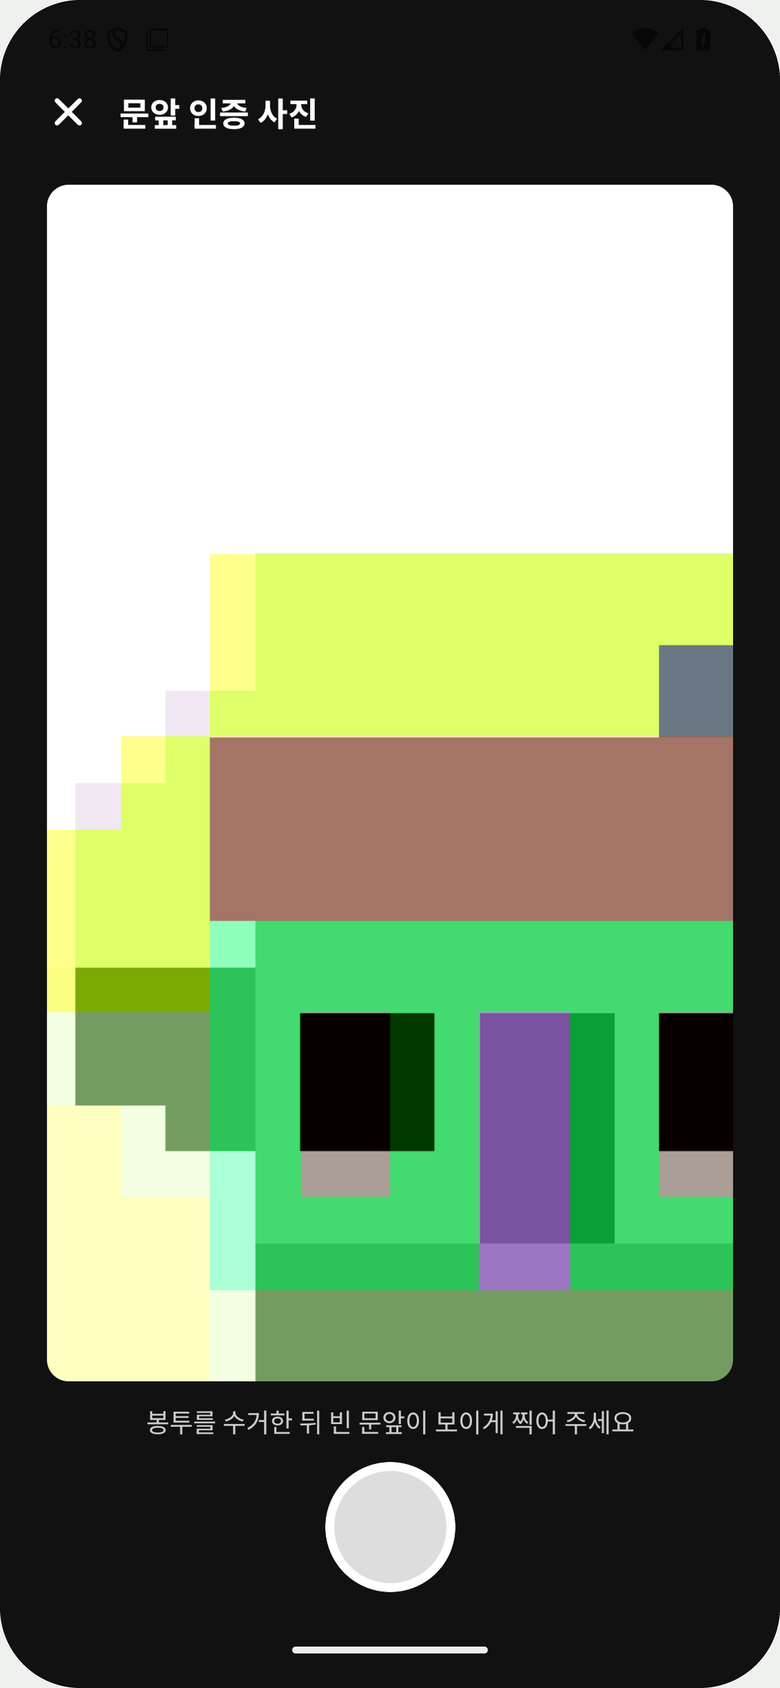
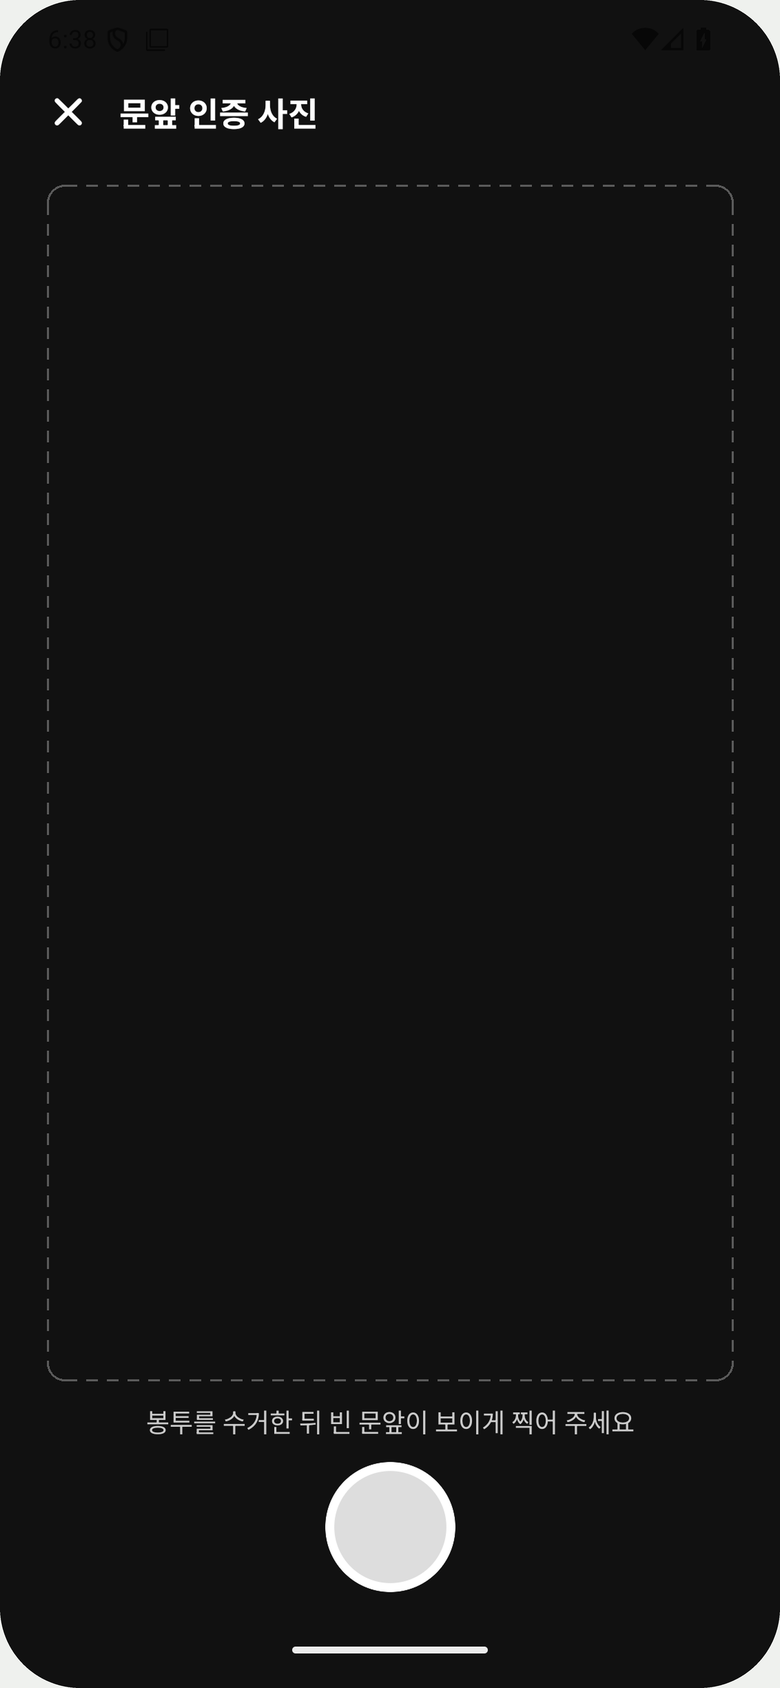
content: refine Bunri Jipsa overview copy, simplify screen gallery captions

diff --git a/public/projects/personal-sanitation/index.html b/public/projects/personal-sanitation/index.html
@@ -182,10 +182,10 @@
     <h2>프로젝트 개요</h2>
     <p class="lead">구독제 분리수거 대행 서비스입니다.<br>고객 앱은 Android·iOS 크로스 플랫폼을 지원합니다.<br>고객·기사·운영 담당자가 하나의 서비스 흐름으로 연결됩니다.</p>
     <div class="grid two services">
-      <div class="card service-card"><span class="tag">고객 앱</span><h3>서비스 앱</h3><p>구독을 신청하고, 정해진 수거 일정과 요청 사항을 관리하는 고객용 앱입니다.</p><div class="chips"><span class="chip">React</span><span class="chip">React Native</span><span class="chip">Expo</span></div></div>
-      <div class="card service-card"><span class="tag">기사 앱</span><h3>운영 앱</h3><p>수거 방문기사에게 오늘의 수거 권역과 방문 목록을 보여줍니다. 완료·미수거 기록을 오프라인에서도 저장하고, 관리자 웹의 작업 현황과 연계되도록 설계했습니다.</p><div class="chips"><span class="chip">React</span><span class="chip">React Native</span><span class="chip">Expo</span></div></div>
-      <div class="card service-card"><span class="tag">관리자 웹</span><h3>운영 대시보드</h3><p>오늘의 권역별 작업 현황과 구독·결제, 고객 요청, 푸시 알림, 이벤트·할인, 가격·플랜을 관리하는 운영 대시보드입니다.</p><div class="chips"><span class="chip">React</span><span class="chip">Next.js</span></div></div>
-      <div class="card service-card"><span class="tag">API</span><h3>백엔드 서버</h3><p>고객 앱과 운영 대시보드가 공유하고 기사 앱 연동을 전제로 설계한 백엔드 API입니다. 고객·구독·수거·결제 데이터를 통합 관리해 서비스 간 데이터 정합성을 높였습니다.</p><div class="chips"><span class="chip">NestJS</span><span class="chip">PostgreSQL</span><span class="chip">Docker</span><span class="chip">TypeORM</span></div></div>
+      <div class="card service-card"><span class="tag">고객 앱</span><h3>서비스 앱</h3><p>구독 기반으로 정해진 수거 일정에 맞춰 쓰레기를 수거하는 서비스입니다.<br>고객은 여러 주소에 각각 서비스를 신청하고, 수거 일정과 요청 사항을 앱에서 관리할 수 있습니다.</p><div class="chips"><span class="chip">React</span><span class="chip">React Native</span><span class="chip">Expo</span></div></div>
+      <div class="card service-card"><span class="tag">기사 앱</span><h3>운영 앱</h3><p>수거 방문 기사에게 오늘의 수거 권역과 방문 목록을 보여 줍니다.<br>완료·미수거 기록을 오프라인에서도 저장하고, 관리자 웹의 작업 현황과 연계되도록 구현했습니다.</p><div class="chips"><span class="chip">React</span><span class="chip">React Native</span><span class="chip">Expo</span></div></div>
+      <div class="card service-card"><span class="tag">관리자 웹</span><h3>운영 대시보드</h3><p>오늘의 권역별 작업 현황을 확인할 수 있는 관리자용 웹사이트입니다.<br>구독·결제, 고객 요청, 푸시 알림, 이벤트·할인, 가격·플랜을 설정할 수 있습니다.</p><div class="chips"><span class="chip">React</span><span class="chip">Next.js</span></div></div>
+      <div class="card service-card"><span class="tag">API</span><h3>백엔드 서버</h3><p>고객 앱, 운영 대시보드, 기사 앱 연동을 전제로 구현한 백엔드 서버입니다.<br>고객·구독·수거·결제 데이터를 통합 관리해 서비스 간 데이터 정합성을 높였습니다.</p><div class="chips"><span class="chip">NestJS</span><span class="chip">PostgreSQL</span><span class="chip">Docker</span><span class="chip">TypeORM</span></div></div>
     </div>
   </div>
 </section>
@@ -193,7 +193,6 @@
 <section>
   <div class="wrap">
     <h2>서비스 이미지</h2>
-    <p class="lead">각 서비스의 주요 화면입니다. <span class="screen-only">이미지를 누르면 크게 볼 수 있습니다.</span></p>
     <div class="tabs" role="tablist">
       <button role="tab" aria-selected="true" data-tab="app" aria-controls="app">서비스 앱</button>
       <button role="tab" aria-selected="false" data-tab="driver" aria-controls="driver">운영 앱</button>
@@ -201,31 +200,31 @@
     </div>
 
     <div class="gallery phones on" id="app" role="tabpanel" data-label="서비스 앱">
-      <figure><img src="images/app-guest.png" alt="둘러보기 홈"><figcaption><b>둘러보기</b>로그인 없이 동네·요금 확인</figcaption></figure>
-      <figure><img src="images/app-signup.png" alt="회원가입 본인인증"><figcaption><b>회원가입</b>휴대폰 본인인증</figcaption></figure>
-      <figure><img src="images/app-home.png" alt="서비스 앱 홈 화면: 내 구독 목록"><figcaption><b>홈</b>여러 주소의 구독 목록</figcaption></figure>
-      <figure><img src="images/app-detail.png" alt="구독 상세"><figcaption><b>구독 상세</b>다음 수거 D-day · 이번 주 요청 · 고정 요청</figcaption></figure>
-      <figure><img src="images/app-subscribe.png" alt="플랜 선택"><figcaption><b>구독 신청</b>봉투 용량 · 추가 봉투</figcaption></figure>
-      <figure><img src="images/app-waitlist.png" alt="서비스 불가 지역"><figcaption><b>구독 대기</b>서비스 지역 밖 주소는 결제 없이 대기 등록</figcaption></figure>
-      <figure><img src="images/app-request.png" alt="이번 주 요청 작성"><figcaption><b>이번 주 요청</b>수거일 선택 · 추가 봉투 바로 결제</figcaption></figure>
-      <figure><img src="images/app-notifications.png" alt="알림 목록"><figcaption><b>알림</b>요청 답변 · 요금 변경 · 결제 알림</figcaption></figure>
-      <figure><img src="images/app-price-change.png" alt="요금 인상 동의"><figcaption><b>요금 변경 동의</b>인상 전후 금액 비교 · 동의 또는 해지</figcaption></figure>
-      <figure><img src="images/app-home-dark.png" alt="다크 모드 홈"><figcaption><b>다크 모드</b>기기 설정을 따름</figcaption></figure>
+      <figure><img src="images/app-guest.png" alt="둘러보기 홈"><figcaption><b>둘러보기</b></figcaption></figure>
+      <figure><img src="images/app-signup.png" alt="회원가입 본인인증"><figcaption><b>회원가입</b></figcaption></figure>
+      <figure><img src="images/app-home.png" alt="서비스 앱 홈 화면: 내 구독 목록"><figcaption><b>홈</b></figcaption></figure>
+      <figure><img src="images/app-detail.png" alt="구독 상세"><figcaption><b>구독 상세</b></figcaption></figure>
+      <figure><img src="images/app-subscribe.png" alt="플랜 선택"><figcaption><b>구독 신청</b></figcaption></figure>
+      <figure><img src="images/app-waitlist.png" alt="서비스 불가 지역"><figcaption><b>구독 대기</b></figcaption></figure>
+      <figure><img src="images/app-request.png" alt="이번 주 요청 작성"><figcaption><b>이번 주 요청</b></figcaption></figure>
+      <figure><img src="images/app-notifications.png" alt="알림 목록"><figcaption><b>알림</b></figcaption></figure>
+      <figure><img src="images/app-price-change.png" alt="요금 인상 동의"><figcaption><b>요금 변경 동의</b></figcaption></figure>
+      <figure><img src="images/app-home-dark.png" alt="다크 모드 홈"><figcaption><b>다크 모드</b></figcaption></figure>
     </div>
 
     <div class="gallery phones" id="driver" role="tabpanel" data-label="운영 앱">
-      <figure><img src="images/driver-today.png" alt="오늘 수거 목록"><figcaption><b>오늘 수거</b>진행률 · 오프라인 전송 대기</figcaption></figure>
-      <figure><img src="images/driver-stop.png" alt="수거지 상세"><figcaption><b>수거지 상세</b>출입 정보(비밀번호 가림) · 이번 주 요청</figcaption></figure>
-      <figure><img src="images/driver-photo.png" alt="수거 인증 촬영"><figcaption><b>수거 인증</b>빈 문앞을 촬영해 완료 처리</figcaption></figure>
+      <figure><img src="images/driver-today.png" alt="오늘 수거 목록"><figcaption><b>오늘 수거</b></figcaption></figure>
+      <figure><img src="images/driver-stop.png" alt="수거지 상세"><figcaption><b>수거지 상세</b></figcaption></figure>
+      <figure><img src="images/driver-photo.png" alt="수거 인증 촬영"><figcaption><b>수거 인증</b></figcaption></figure>
     </div>
 
     <div class="gallery desks" id="dash" role="tabpanel" data-label="운영 대시보드">
-      <figure><img src="images/dash-overview.png" alt="오늘 현황"><figcaption><b>오늘 현황</b>미답변 요청 · 권역별 수거 진행 · 미수거 · 결제 실패</figcaption></figure>
-      <figure><img src="images/dash-subscriptions.png" alt="구독 결제 조회"><figcaption><b>구독 · 결제</b>마스킹된 목록 + 상세 패널</figcaption></figure>
-      <figure><img src="images/dash-pricing.png" alt="가격 플랜"><figcaption><b>가격 · 플랜</b>예약 가격 변경 · 동의 현황</figcaption></figure>
-      <figure><img src="images/dash-areas.png" alt="지역 권역"><figcaption><b>지역 · 권역</b>권역 트리 · 수거 요일 · 읍면동 오픈 상태</figcaption></figure>
-      <figure><img src="images/dash-push.png" alt="푸시 작성"><figcaption><b>푸시 발송</b>대상 조건 · 미리보기</figcaption></figure>
-      <figure><img src="images/dash-promotions.png" alt="이벤트 만들기"><figcaption><b>이벤트 · 할인</b>조건 조합 · 예상 할인액 미리보기</figcaption></figure>
+      <figure><img src="images/dash-overview.png" alt="오늘 현황"><figcaption><b>오늘 현황</b></figcaption></figure>
+      <figure><img src="images/dash-subscriptions.png" alt="구독 결제 조회"><figcaption><b>구독 · 결제</b></figcaption></figure>
+      <figure><img src="images/dash-pricing.png" alt="가격 플랜"><figcaption><b>가격 · 플랜</b></figcaption></figure>
+      <figure><img src="images/dash-areas.png" alt="지역 권역"><figcaption><b>지역 · 권역</b></figcaption></figure>
+      <figure><img src="images/dash-push.png" alt="푸시 작성"><figcaption><b>푸시 발송</b></figcaption></figure>
+      <figure><img src="images/dash-promotions.png" alt="이벤트 만들기"><figcaption><b>이벤트 · 할인</b></figcaption></figure>
     </div>
   </div>
 </section>
